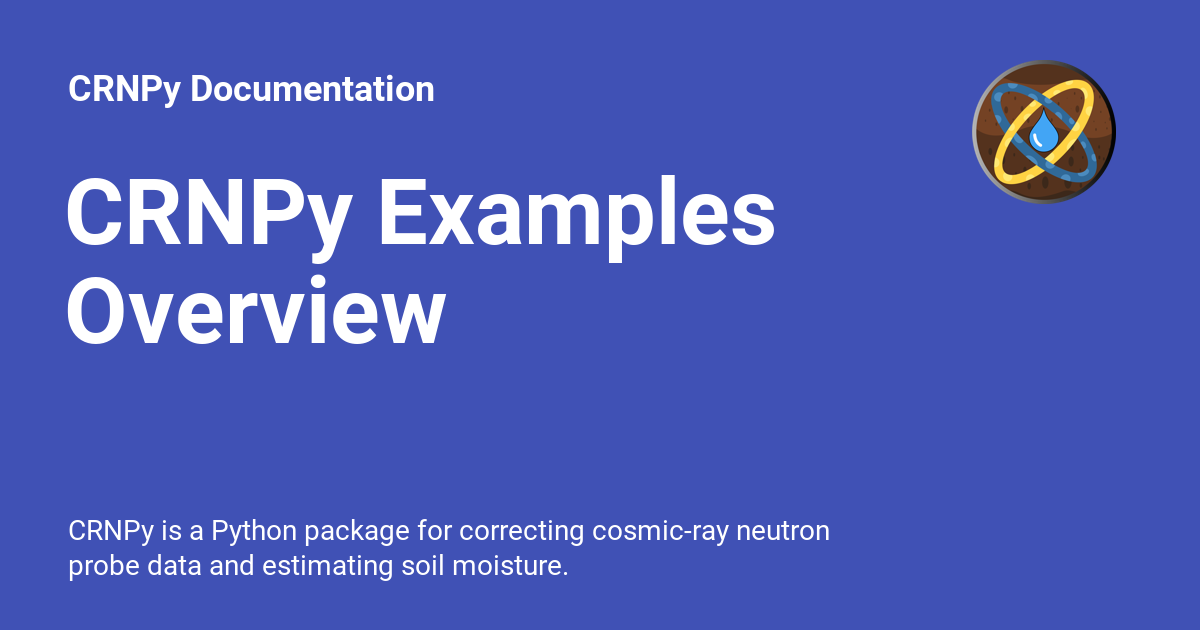
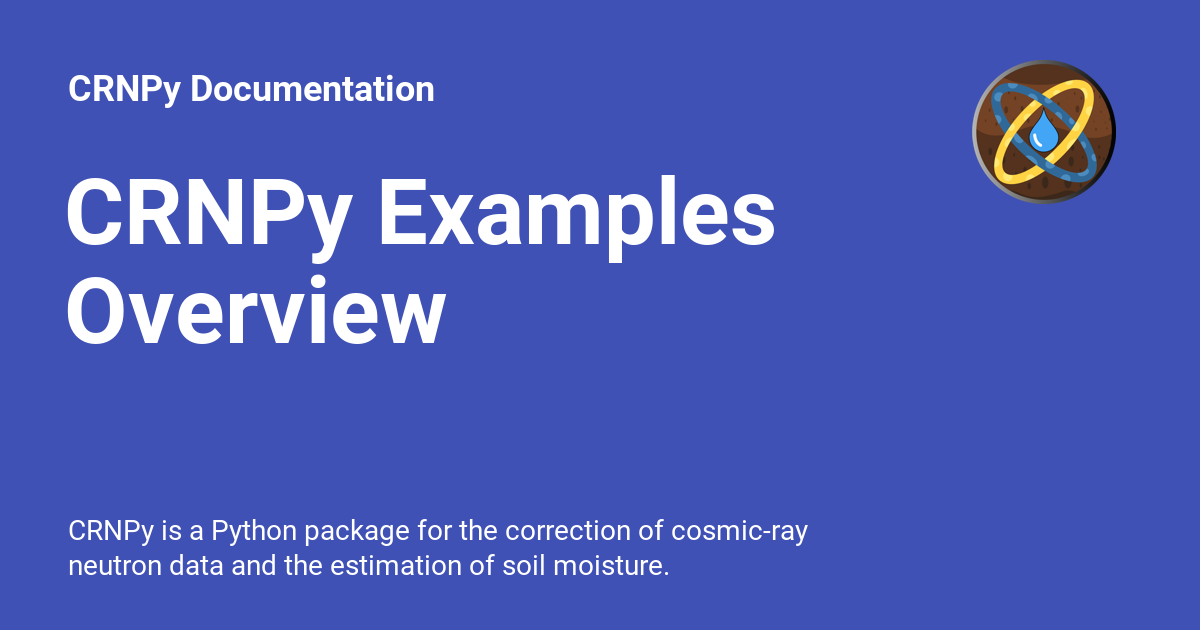
Deployed e4f62d5 with MkDocs version: 1.4.3

Changed region(s): [[0.0617, 0.8143, 0.6783, 0.9349]]

diff --git a/examples/rover/Hydroinnova_rover_example-Copy1/index.html b/examples/rover/Hydroinnova_rover_example-Copy1/index.html
@@ -6,7 +6,7 @@
       <meta charset="utf-8">
       <meta name="viewport" content="width=device-width,initial-scale=1">
       
-        <meta name="description" content="CRNPy is a Python package for correcting cosmic-ray neutron probe data and estimating soil moisture.">
+        <meta name="description" content="CRNPy is a Python package for the correction of cosmic-ray neutron data and the estimation of soil moisture.">
       
       
       
@@ -54,7 +54,7 @@
       
         <meta  property="og:title"  content="Hydroinnova rover example Copy1 - CRNPy Documentation" >
       
-        <meta  property="og:description"  content="CRNPy is a Python package for correcting cosmic-ray neutron probe data and estimating soil moisture." >
+        <meta  property="og:description"  content="CRNPy is a Python package for the correction of cosmic-ray neutron data and the estimation of soil moisture." >
       
         <meta  property="og:image"  content="https://soilwater.github.io/crnpy/assets/images/social/examples/rover/Hydroinnova_rover_example-Copy1.png" >
       
@@ -70,7 +70,7 @@
       
         <meta  name="twitter:title"  content="Hydroinnova rover example Copy1 - CRNPy Documentation" >
       
-        <meta  name="twitter:description"  content="CRNPy is a Python package for correcting cosmic-ray neutron probe data and estimating soil moisture." >
+        <meta  name="twitter:description"  content="CRNPy is a Python package for the correction of cosmic-ray neutron data and the estimation of soil moisture." >
       
         <meta  name="twitter:image"  content="https://soilwater.github.io/crnpy/assets/images/social/examples/rover/Hydroinnova_rover_example-Copy1.png" >
       

diff --git a/examples/calibration/calibration/index.html b/examples/calibration/calibration/index.html
@@ -6,7 +6,7 @@
       <meta charset="utf-8">
       <meta name="viewport" content="width=device-width,initial-scale=1">
       
-        <meta name="description" content="CRNPy is a Python package for correcting cosmic-ray neutron probe data and estimating soil moisture.">
+        <meta name="description" content="CRNPy is a Python package for the correction of cosmic-ray neutron data and the estimation of soil moisture.">
       
       
       
@@ -58,7 +58,7 @@
       
         <meta  property="og:title"  content="Device calibration - CRNPy Documentation" >
       
-        <meta  property="og:description"  content="CRNPy is a Python package for correcting cosmic-ray neutron probe data and estimating soil moisture." >
+        <meta  property="og:description"  content="CRNPy is a Python package for the correction of cosmic-ray neutron data and the estimation of soil moisture." >
       
         <meta  property="og:image"  content="https://soilwater.github.io/crnpy/assets/images/social/examples/calibration/calibration.png" >
       
@@ -74,7 +74,7 @@
       
         <meta  name="twitter:title"  content="Device calibration - CRNPy Documentation" >
       
-        <meta  name="twitter:description"  content="CRNPy is a Python package for correcting cosmic-ray neutron probe data and estimating soil moisture." >
+        <meta  name="twitter:description"  content="CRNPy is a Python package for the correction of cosmic-ray neutron data and the estimation of soil moisture." >
       
         <meta  name="twitter:image"  content="https://soilwater.github.io/crnpy/assets/images/social/examples/calibration/calibration.png" >
       

diff --git a/examples/rover/Hydroinnova_rover_example/index.html b/examples/rover/Hydroinnova_rover_example/index.html
@@ -6,7 +6,7 @@
       <meta charset="utf-8">
       <meta name="viewport" content="width=device-width,initial-scale=1">
       
-        <meta name="description" content="CRNPy is a Python package for correcting cosmic-ray neutron probe data and estimating soil moisture.">
+        <meta name="description" content="CRNPy is a Python package for the correction of cosmic-ray neutron data and the estimation of soil moisture.">
       
       
       
@@ -58,7 +58,7 @@
       
         <meta  property="og:title"  content="Example 2 - CRNPy Documentation" >
       
-        <meta  property="og:description"  content="CRNPy is a Python package for correcting cosmic-ray neutron probe data and estimating soil moisture." >
+        <meta  property="og:description"  content="CRNPy is a Python package for the correction of cosmic-ray neutron data and the estimation of soil moisture." >
       
         <meta  property="og:image"  content="https://soilwater.github.io/crnpy/assets/images/social/examples/rover/Hydroinnova_rover_example.png" >
       
@@ -74,7 +74,7 @@
       
         <meta  name="twitter:title"  content="Example 2 - CRNPy Documentation" >
       
-        <meta  name="twitter:description"  content="CRNPy is a Python package for correcting cosmic-ray neutron probe data and estimating soil moisture." >
+        <meta  name="twitter:description"  content="CRNPy is a Python package for the correction of cosmic-ray neutron data and the estimation of soil moisture." >
       
         <meta  name="twitter:image"  content="https://soilwater.github.io/crnpy/assets/images/social/examples/rover/Hydroinnova_rover_example.png" >
       

diff --git a/examples/stationary/example_RDT_station/index.html b/examples/stationary/example_RDT_station/index.html
@@ -6,7 +6,7 @@
       <meta charset="utf-8">
       <meta name="viewport" content="width=device-width,initial-scale=1">
       
-        <meta name="description" content="CRNPy is a Python package for correcting cosmic-ray neutron probe data and estimating soil moisture.">
+        <meta name="description" content="CRNPy is a Python package for the correction of cosmic-ray neutron data and the estimation of soil moisture.">
       
       
       
@@ -58,7 +58,7 @@
       
         <meta  property="og:title"  content="Example 1 - CRNPy Documentation" >
       
-        <meta  property="og:description"  content="CRNPy is a Python package for correcting cosmic-ray neutron probe data and estimating soil moisture." >
+        <meta  property="og:description"  content="CRNPy is a Python package for the correction of cosmic-ray neutron data and the estimation of soil moisture." >
       
         <meta  property="og:image"  content="https://soilwater.github.io/crnpy/assets/images/social/examples/stationary/example_RDT_station.png" >
       
@@ -74,7 +74,7 @@
       
         <meta  name="twitter:title"  content="Example 1 - CRNPy Documentation" >
       
-        <meta  name="twitter:description"  content="CRNPy is a Python package for correcting cosmic-ray neutron probe data and estimating soil moisture." >
+        <meta  name="twitter:description"  content="CRNPy is a Python package for the correction of cosmic-ray neutron data and the estimation of soil moisture." >
       
         <meta  name="twitter:image"  content="https://soilwater.github.io/crnpy/assets/images/social/examples/stationary/example_RDT_station.png" >
       

diff --git a/examples/overview/index.html b/examples/overview/index.html
@@ -6,7 +6,7 @@
       <meta charset="utf-8">
       <meta name="viewport" content="width=device-width,initial-scale=1">
       
-        <meta name="description" content="CRNPy is a Python package for correcting cosmic-ray neutron probe data and estimating soil moisture.">
+        <meta name="description" content="CRNPy is a Python package for the correction of cosmic-ray neutron data and the estimation of soil moisture.">
       
       
       
@@ -58,7 +58,7 @@
       
         <meta  property="og:title"  content="CRNPy Examples Overview - CRNPy Documentation" >
       
-        <meta  property="og:description"  content="CRNPy is a Python package for correcting cosmic-ray neutron probe data and estimating soil moisture." >
+        <meta  property="og:description"  content="CRNPy is a Python package for the correction of cosmic-ray neutron data and the estimation of soil moisture." >
       
         <meta  property="og:image"  content="https://soilwater.github.io/crnpy/assets/images/social/examples/overview.png" >
       
@@ -74,7 +74,7 @@
       
         <meta  name="twitter:title"  content="CRNPy Examples Overview - CRNPy Documentation" >
       
-        <meta  name="twitter:description"  content="CRNPy is a Python package for correcting cosmic-ray neutron probe data and estimating soil moisture." >
+        <meta  name="twitter:description"  content="CRNPy is a Python package for the correction of cosmic-ray neutron data and the estimation of soil moisture." >
       
         <meta  name="twitter:image"  content="https://soilwater.github.io/crnpy/assets/images/social/examples/overview.png" >
       

diff --git a/correction_routines/index.html b/correction_routines/index.html
@@ -6,7 +6,7 @@
       <meta charset="utf-8">
       <meta name="viewport" content="width=device-width,initial-scale=1">
       
-        <meta name="description" content="CRNPy is a Python package for correcting cosmic-ray neutron probe data and estimating soil moisture.">
+        <meta name="description" content="CRNPy is a Python package for the correction of cosmic-ray neutron data and the estimation of soil moisture.">
       
       
       
@@ -58,7 +58,7 @@
       
         <meta  property="og:title"  content="Correction routines - CRNPy Documentation" >
       
-        <meta  property="og:description"  content="CRNPy is a Python package for correcting cosmic-ray neutron probe data and estimating soil moisture." >
+        <meta  property="og:description"  content="CRNPy is a Python package for the correction of cosmic-ray neutron data and the estimation of soil moisture." >
       
         <meta  property="og:image"  content="https://soilwater.github.io/crnpy/assets/images/social/correction_routines.png" >
       
@@ -74,7 +74,7 @@
       
         <meta  name="twitter:title"  content="Correction routines - CRNPy Documentation" >
       
-        <meta  name="twitter:description"  content="CRNPy is a Python package for correcting cosmic-ray neutron probe data and estimating soil moisture." >
+        <meta  name="twitter:description"  content="CRNPy is a Python package for the correction of cosmic-ray neutron data and the estimation of soil moisture." >
       
         <meta  name="twitter:image"  content="https://soilwater.github.io/crnpy/assets/images/social/correction_routines.png" >
       

diff --git a/reference/index.html b/reference/index.html
@@ -6,7 +6,7 @@
       <meta charset="utf-8">
       <meta name="viewport" content="width=device-width,initial-scale=1">
       
-        <meta name="description" content="CRNPy is a Python package for correcting cosmic-ray neutron probe data and estimating soil moisture.">
+        <meta name="description" content="CRNPy is a Python package for the correction of cosmic-ray neutron data and the estimation of soil moisture.">
       
       
       
@@ -56,7 +56,7 @@
       
         <meta  property="og:title"  content="Reference - CRNPy Documentation" >
       
-        <meta  property="og:description"  content="CRNPy is a Python package for correcting cosmic-ray neutron probe data and estimating soil moisture." >
+        <meta  property="og:description"  content="CRNPy is a Python package for the correction of cosmic-ray neutron data and the estimation of soil moisture." >
       
         <meta  property="og:image"  content="https://soilwater.github.io/crnpy/assets/images/social/reference.png" >
       
@@ -72,7 +72,7 @@
       
         <meta  name="twitter:title"  content="Reference - CRNPy Documentation" >
       
-        <meta  name="twitter:description"  content="CRNPy is a Python package for correcting cosmic-ray neutron probe data and estimating soil moisture." >
+        <meta  name="twitter:description"  content="CRNPy is a Python package for the correction of cosmic-ray neutron data and the estimation of soil moisture." >
       
         <meta  name="twitter:image"  content="https://soilwater.github.io/crnpy/assets/images/social/reference.png" >
       

diff --git a/index.html b/index.html
@@ -6,7 +6,7 @@
       <meta charset="utf-8">
       <meta name="viewport" content="width=device-width,initial-scale=1">
       
-        <meta name="description" content="CRNPy is a Python package for correcting cosmic-ray neutron probe data and estimating soil moisture.">
+        <meta name="description" content="CRNPy is a Python package for the correction of cosmic-ray neutron data and the estimation of soil moisture.">
       
       
       
@@ -56,7 +56,7 @@
       
         <meta  property="og:title"  content="Home" >
       
-        <meta  property="og:description"  content="CRNPy is a Python package for correcting cosmic-ray neutron probe data and estimating soil moisture." >
+        <meta  property="og:description"  content="CRNPy is a Python package for the correction of cosmic-ray neutron data and the estimation of soil moisture." >
       
         <meta  property="og:image"  content="https://soilwater.github.io/crnpy/assets/images/social/index.png" >
       
@@ -72,7 +72,7 @@
       
         <meta  name="twitter:title"  content="Home" >
       
-        <meta  name="twitter:description"  content="CRNPy is a Python package for correcting cosmic-ray neutron probe data and estimating soil moisture." >
+        <meta  name="twitter:description"  content="CRNPy is a Python package for the correction of cosmic-ray neutron data and the estimation of soil moisture." >
       
         <meta  name="twitter:image"  content="https://soilwater.github.io/crnpy/assets/images/social/index.png" >
       

diff --git a/404.html b/404.html
@@ -6,7 +6,7 @@
       <meta charset="utf-8">
       <meta name="viewport" content="width=device-width,initial-scale=1">
       
-        <meta name="description" content="CRNPy is a Python package for correcting cosmic-ray neutron probe data and estimating soil moisture.">
+        <meta name="description" content="CRNPy is a Python package for the correction of cosmic-ray neutron data and the estimation of soil moisture.">
       
       
       
